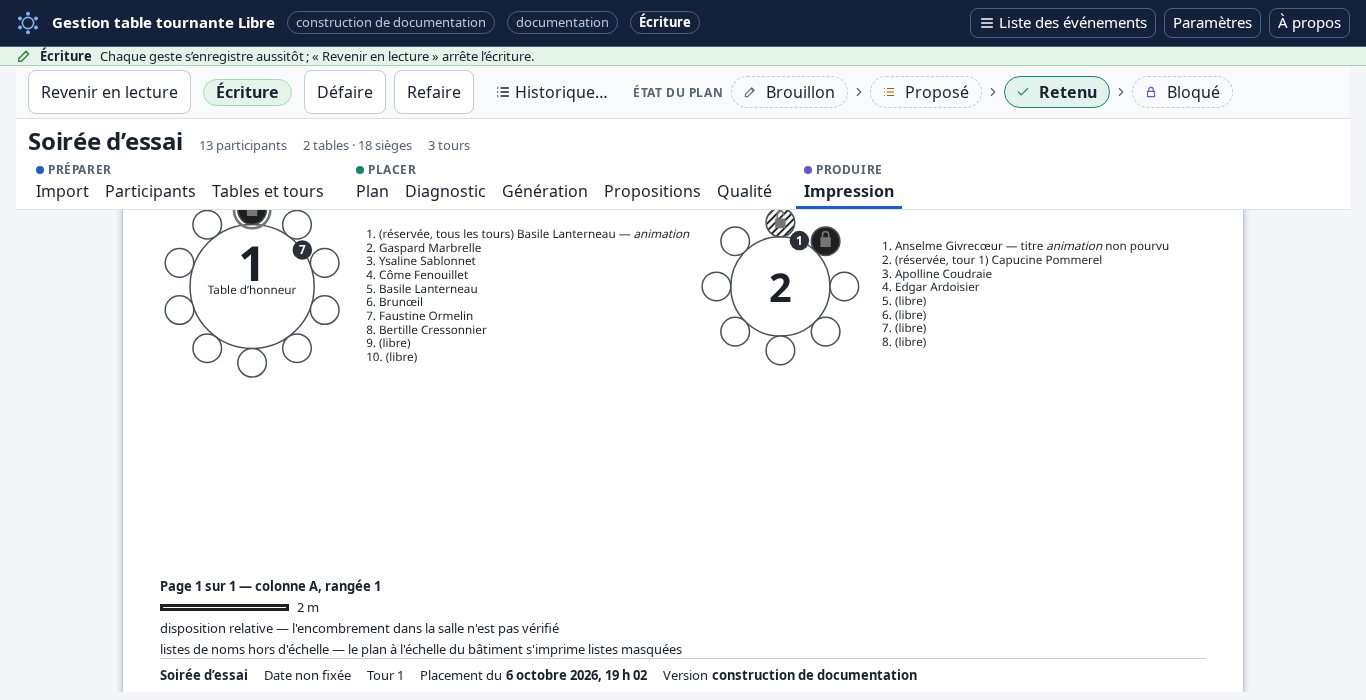
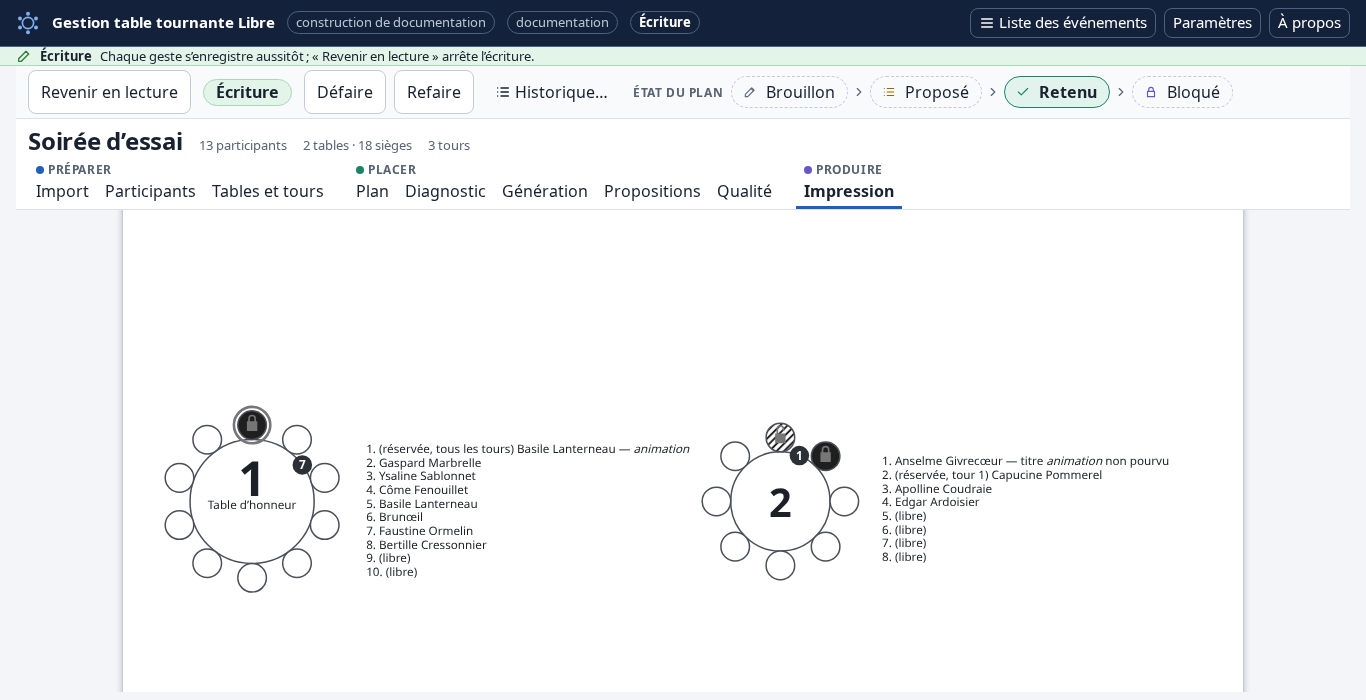
[UPD] docs: retake print-preview captures 22 and 23
Both previews now open on the top of the plan drawing, so each shows the
two tables whole, and the draft one its watermark centre. The contrast
table of the README follows the retaken image of step 22.
Checked: captures run 76/76, documentation check 0 faults.

--- FR ---

[UPD] docs : reprendre les captures d'aperçu 22 et 23

Les deux aperçus s'ouvrent désormais sur le haut du dessin du plan : chacun
montre les deux tables entières, et celui du brouillon le centre de son
filigrane. Le tableau des contrastes du README suit l'image reprise de
l'étape 22.
Vérifié : parcours des captures 76/76, vérification de la doc 0 faute.

Assisted-by: Claude Opus 5.5

diff --git a/README.md b/README.md
@@ -115,7 +115,6 @@ sur les captures.
 | `--couleur-retrait` | marque | 3 | 5,62 | 04a-etiquettes | 5,96 | 04a-etiquettes |
 | `--couleur-selection` | marque | 3 | 4,57 | 08-animateurs-designes | 4,18 | 08-animateurs-designes |
 | `--couleur-table-trait` | marque | 3 | 7,44 | 07-plan-tables | 5,59 | 07-plan-tables |
-| `rgb(24, 33, 47)` | texte | 4,5 | — | — | 16,19 | 22-plan-brouillon |
 | `rgb(28, 33, 40)` | texte | 4,5 | — | — | 16,18 | 22-plan-brouillon |
 
 <!-- engendre:fin contrastes -->
